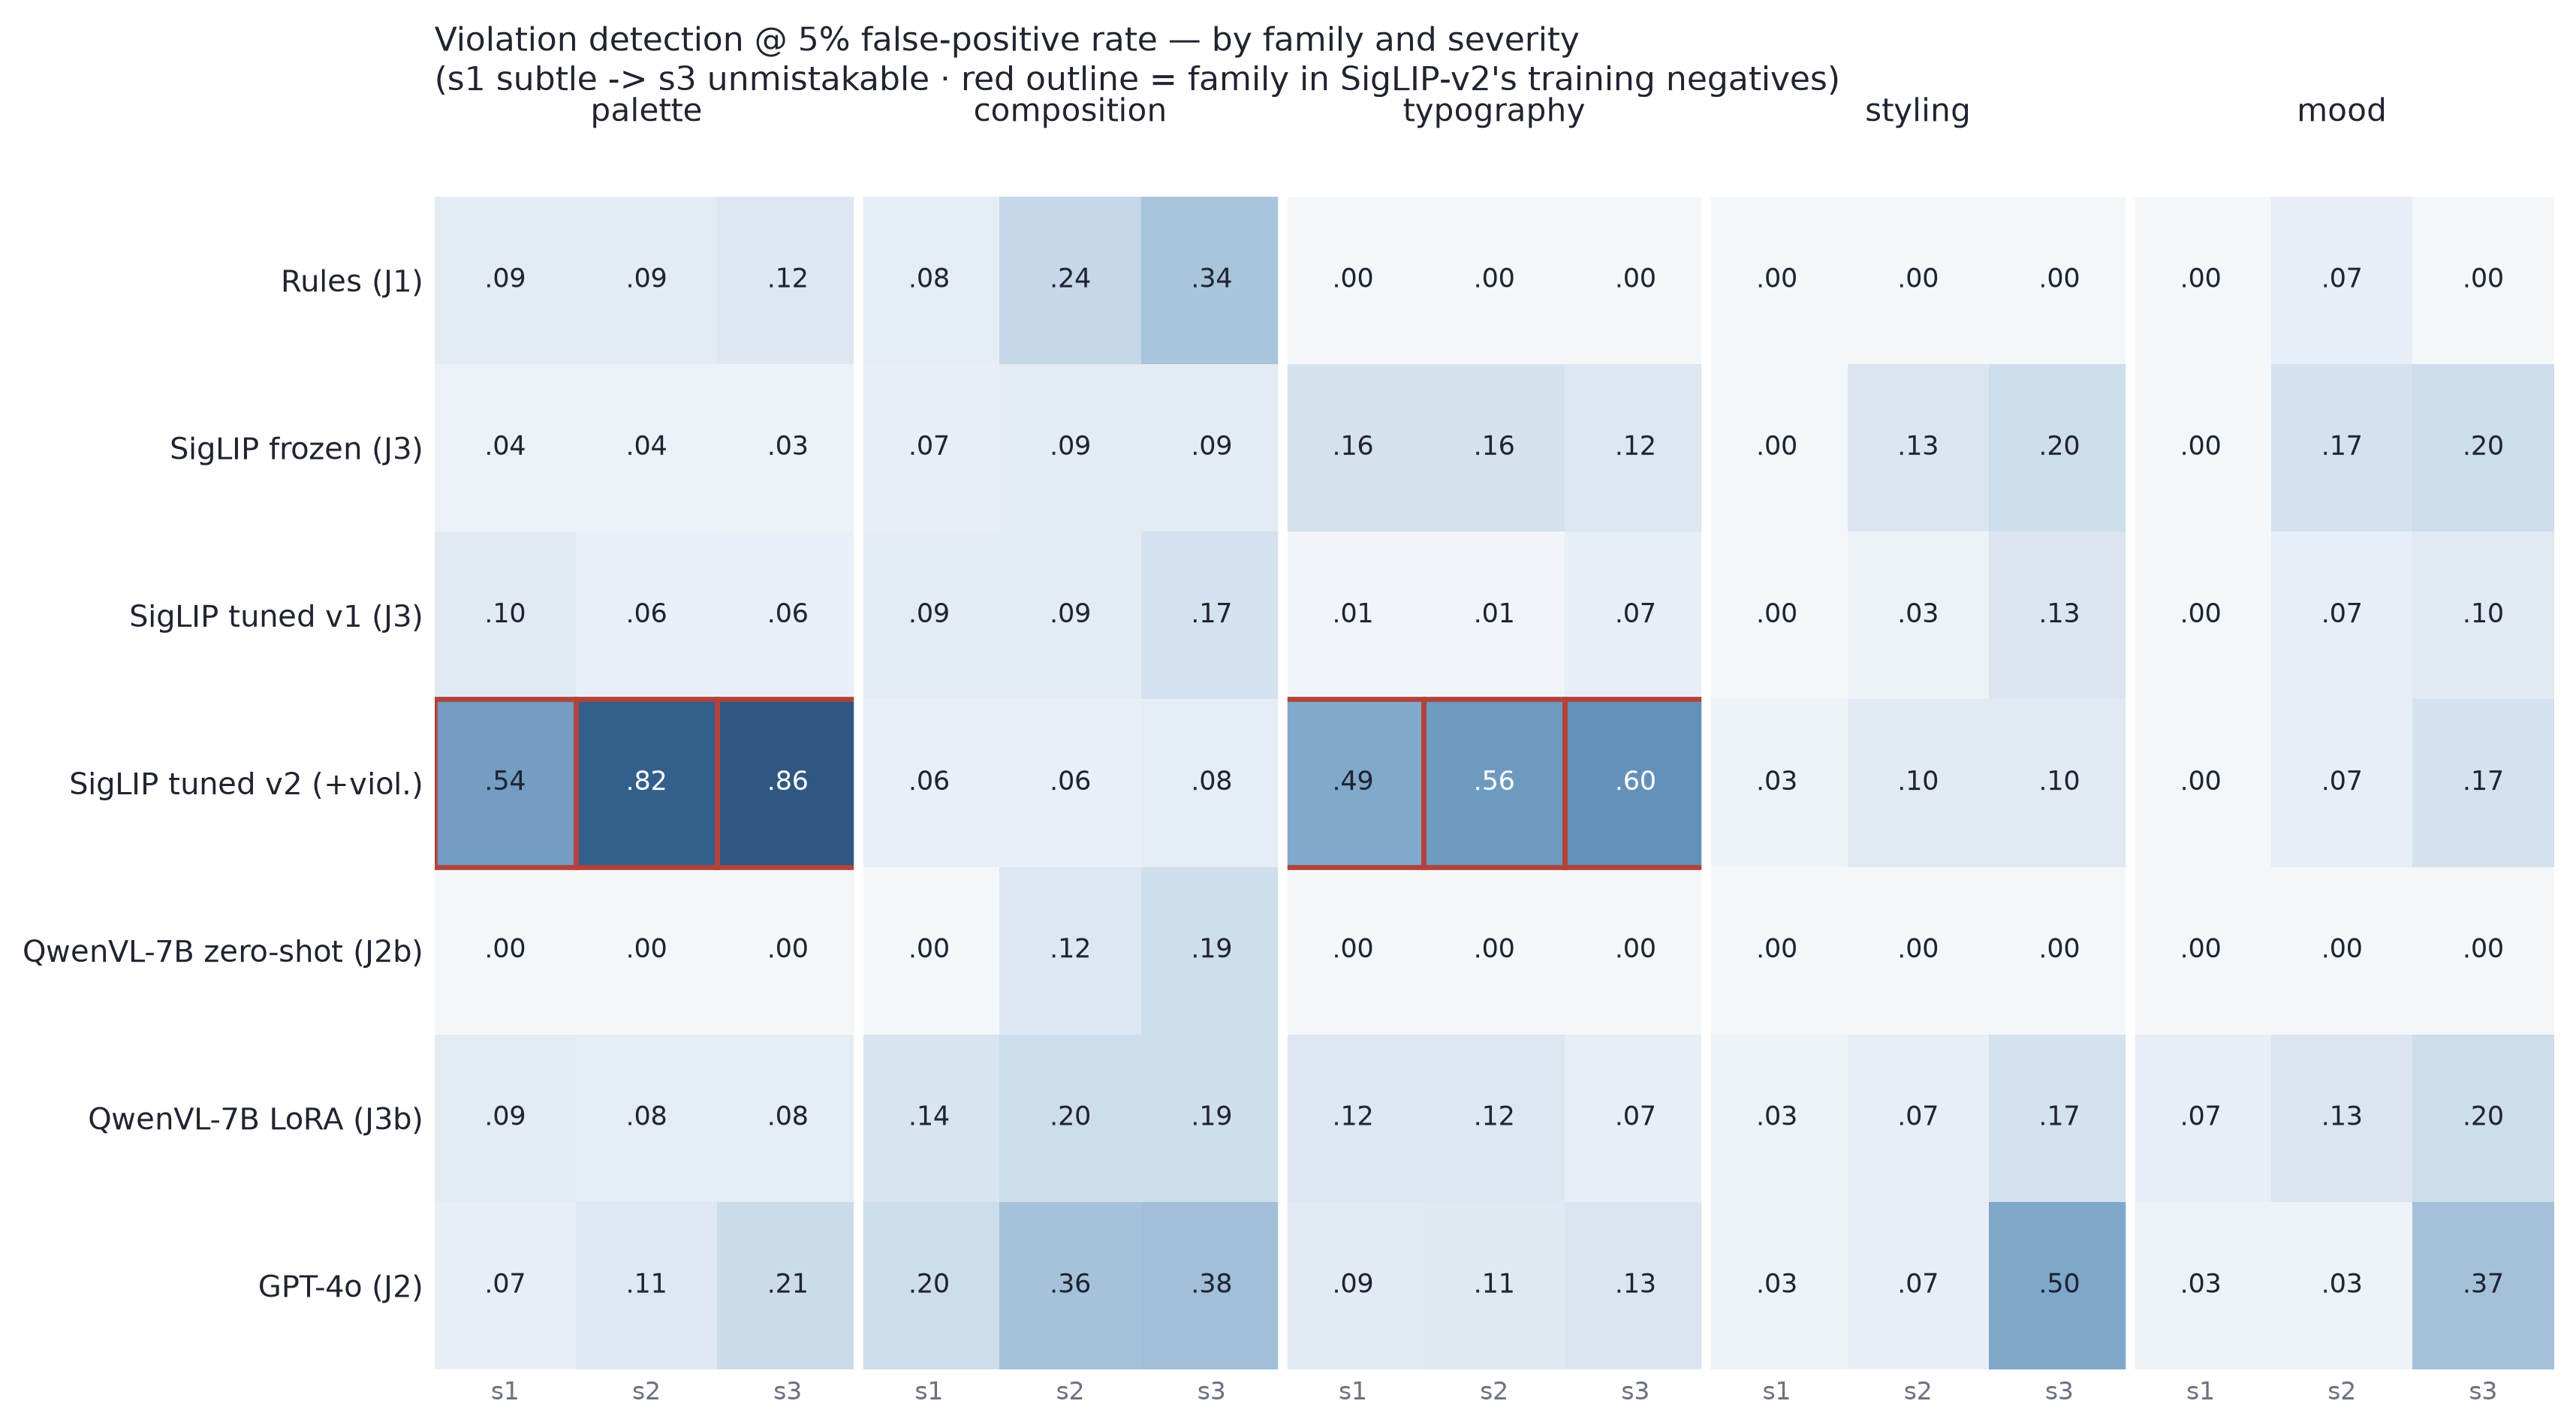
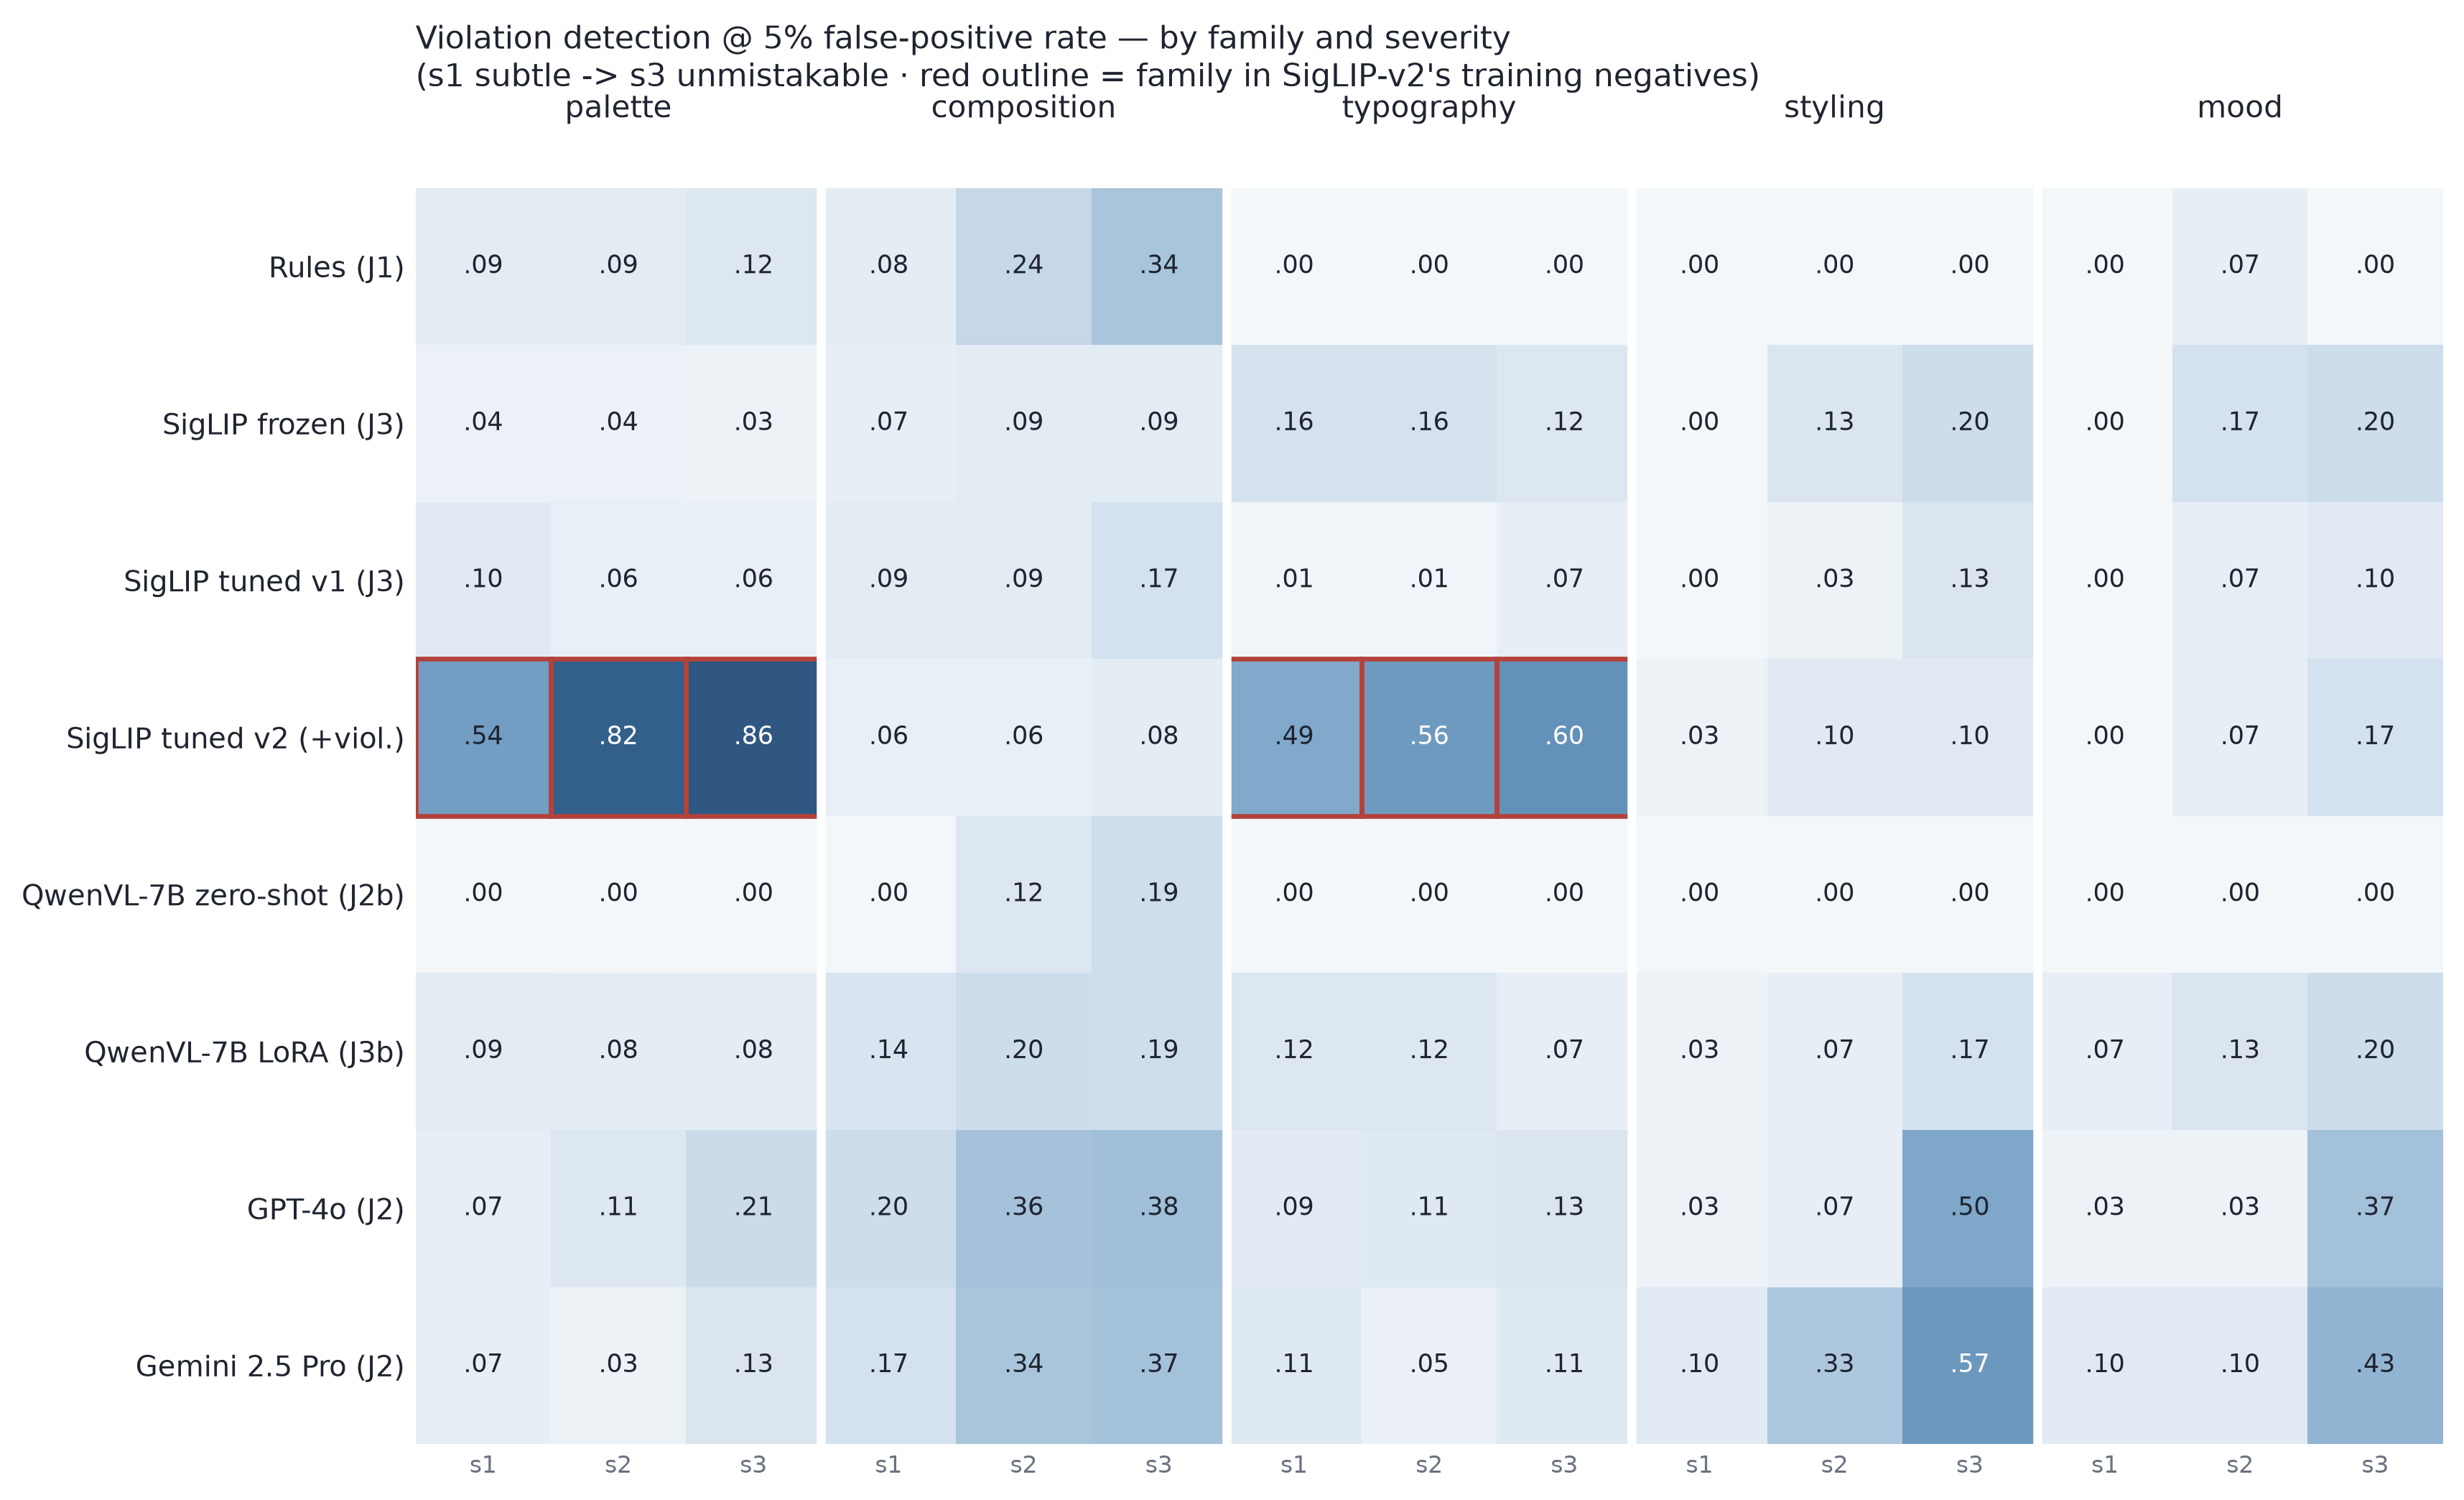
consolidation: Gemini report-card row, Finding 14 (Qwen SRPO null), public HF weights
- Gemini 2.5 Pro scored the full test set (2,613/2,622); report card row
  computed via eval/score_judges.py: AUC 0.86, logo delta 0.06, det@5%FPR
  0.20, dial rho 0.72, ECE 0.06. README table and heatmap updated;
  partial-scoring limitation removed.
- Finding 14 added to docs/case_study.md: the matched SRPO gradient attack
  on the QwenVL-7B LoRA judge is a null (+0.012 vs SigLIP's +0.36, zero
  control leakage), the clean control for the security-architecture thesis.
- Both SRPO checkpoints (judgebench-srpo-{siglip,qwen}-ckpt200) flipped to
  public on Hugging Face; README and docs annotations updated.

diff --git a/docs/case_study.md b/docs/case_study.md
@@ -1,5 +1,32 @@
 # judgebench — case study log
 
+## Finding 14 (July 9): SRPO gradient attack on QwenVL — the clean null control
+- The identical attack that shattered SigLIP (Finding 10) — same 200 SRPO steps
+  on FLUX.1-dev, same brand prompts/seeds/params, same pressure budget — aimed at
+  the QwenVL-7B LoRA judge (J3b) as the differentiable reward. Full writeup:
+  docs/srpo_qwen_findings.md; numbers: eval/results/srpo_qwen.json.
+- **The attack did not land: attacked judge +0.012 vs SigLIP-tuned's +0.36 at
+  matched pressure — ~30x weaker.** Per-item deltas are noise (sd 0.269, 43% up /
+  57% down). And **zero control leakage** (-0.001) vs the SigLIP arm's +0.26 bleed
+  onto non-brand controls — no pink/wordmark injection anywhere.
+- Meanwhile the clean independent judges (SigLIP frozen + tuned-v1) saw brand
+  quality FALL ~-0.15: unable to hack Qwen, the optimizer just degraded the
+  images — and where it perturbed hardest (frozen delta ~ -0.7), Qwen correctly
+  scored the broken image ~0.00.
+- Mechanism: SigLIP is cosine-to-a-centroid, and Finding 12 showed its exploit is
+  a single embedding direction — a smooth, low-dimensional gradient target. Qwen
+  routes P("yes") through a 7B autoregressive stack over vision tokens; there is
+  no cheap global pixel direction, so gradient pressure finds only tiny
+  per-batch perturbations that don't transfer to held-out seeds/prompts.
+- Caveat: this is a **lower bound at matched pressure** (the exact budget that
+  broke SigLIP), not proof of unconditional robustness; single seed; GPT-4o
+  cross-check deferred (two independent embedding judges + the attacked judge
+  itself already agree).
+- This is the security-architecture thesis validated in one controlled swap:
+  holding attack, brand, generator and pressure fixed, changing only the judge
+  architecture turns a shattering exploit (+0.36) into a null (+0.012). Attack
+  surface is a property of the judge, not the pressure.
+
 ## Finding 13 (July 9): hardening round — crushes the seen attack, only dampens the unseen
 - SigLIP-tuned-v3 = v1 recipe + the SRPO-hacked images folded in as a third
   negative class. Trained on pod (~$1), scored locally.
@@ -47,7 +74,7 @@
   into the 12B transformer, the strongest attack surface on the roster. 4xH100
   (2x OOM'd, borderline). Eval: 40 brand prompts x8 + 10 non-brand control
   prompts x4, tuned vs base FLUX, matched seeds/params to the BoN pool. Model:
-  HF Gupta28/judgebench-srpo-siglip-ckpt200 (private).
+  HF Gupta28/judgebench-srpo-siglip-ckpt200 (public).
 - **The reward hack is unambiguous and cross-confirmed:**
 
   | judge | brand base->tuned | control base->tuned |

diff --git a/README.md b/README.md
@@ -81,7 +81,7 @@ cluster-level with a certified 0.0 percent near-twin leak rate.
 | QwenVL-7B zero-shot (J2b) | 0.98 | **0.31** | 0.02 | **0.94** | 0.20 |
 | QwenVL-7B LoRA (J3b) | 0.98 | 0.05 | 0.12 | 0.16 | **0.03** |
 | GPT-4o (J2) | 0.82 | 0.04 | 0.18 | 0.65 | 0.17 |
-| Gemini 2.5 Pro (J2) | *scoring in progress (daily API quota)* | | | | |
+| Gemini 2.5 Pro (J2) | 0.86 | 0.06 | 0.20 | 0.72 | 0.06 |
 
 ![Detection heatmap](docs/figures/report_card_heatmap.png)
 
@@ -97,6 +97,10 @@ What the table means, in brief:
   810 corruption negatives (palette and typography only): detection explodes on
   those families (0.06 to 0.86) and moves zero on held-out families. You cannot
   enumerate your way to a safe judge.
+- **The frozen API VLMs land mid-pack and look alike.** Gemini 2.5 Pro edges
+  GPT-4o on every column (AUC 0.86 vs 0.82, dial rho 0.72 vs 0.65) with a mild
+  logo lean (delta 0.06) and, unlike GPT-4o (ECE 0.17), it is actually
+  well-calibrated (ECE 0.06). Neither approaches the tuned judges on brand ID.
 - **Everyone is near-blind to subtle (s1) violations**: the top row of every
   optimizer's gradient, and Phase 2's predicted exploit surface.
 
@@ -176,9 +180,9 @@ artifacts. Generated FLUX/SDXL outputs are excluded for size. The hack gallery
 
 ## Trained model weights
 
-The two SRPO-attacked generator checkpoints are on Hugging Face (currently
-private): `Gupta28/judgebench-srpo-siglip-ckpt200` and
-`Gupta28/judgebench-srpo-qwen-ckpt200`.
+The two SRPO-attacked generator checkpoints are public on Hugging Face:
+[`Gupta28/judgebench-srpo-siglip-ckpt200`](https://huggingface.co/Gupta28/judgebench-srpo-siglip-ckpt200) and
+[`Gupta28/judgebench-srpo-qwen-ckpt200`](https://huggingface.co/Gupta28/judgebench-srpo-qwen-ckpt200).
 
 ## Reproduce
 
@@ -223,12 +227,12 @@ Gemini 2.5 Pro ~$4.2/1K (tier-1 daily quota applies).
   dial confounds brand-ness with coherence at high adapter scale (spot-checked).
 - The QwenVL gradient-robustness result is a lower bound at matched pressure
   (the exact budget that broke SigLIP), not proof of unconditional robustness.
-- Gemini report-card scoring is partial (API quota); the SRPO-Qwen arm's
+- The SRPO-Qwen arm's
   external GPT-4o cross-check is deferred, though two independent embedding
   judges and the attacked judge itself already agree.
 
 Rigor process (leak certification, pre-registered ablations, audit trails for
-every instrument) is logged in `docs/case_study.md`, Findings 1 through 13.
+every instrument) is logged in `docs/case_study.md`, Findings 1 through 14.
 
 *AI involvement: this project was built with heavy use of Claude (Anthropic)
 for code and analysis; all results were verified by the author.*

diff --git a/docs/srpo_qwen_findings.md b/docs/srpo_qwen_findings.md
@@ -19,7 +19,7 @@ opposite outcome. This is the cleanest single demonstration in the project that
 - **Eval:** 40 brand prompts x8 + 10 non-brand control prompts x4, tuned vs
   base FLUX, matched seeds (70000+c) and params (28 steps, guidance 3.5,
   1024px) — identical protocol to the SigLIP arm. Scored with the full panel.
-- **Model:** HF `Gupta28/judgebench-srpo-qwen-ckpt200` (private).
+- **Model:** HF `Gupta28/judgebench-srpo-qwen-ckpt200` (public).
 - **Cost:** ~$19.5 pod (1.63h @ $11.96/hr). Well under the $72 envelope.
 
 ## Headline result — the attack did not land
@@ -122,4 +122,4 @@ one with a single exploitable direction breaks, the one without holds.
   verified against the HF processor; logits_to_keep=1 for memory; merge_and_unload
   offline to dodge peft's TP loader under torchrun).
 - `testbed/srpo/{patch_srpo_qwen.py,launch_srpo_qwen.sh,smoke_qwen.py,qwen_score_eval.py}`.
-- HF: `Gupta28/judgebench-srpo-qwen-ckpt200` (private).
+- HF: `Gupta28/judgebench-srpo-qwen-ckpt200` (public).